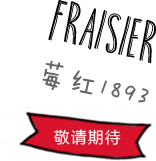
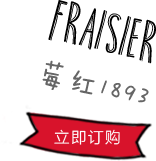
圣诞草莓蛋糕上线

Changed region(s): [[0.3333, 0.8075, 0.7692, 0.9006]]

diff --git a/src/christmas/index.html b/src/christmas/index.html
@@ -133,9 +133,11 @@
                 <img src="images/m_p9.png" class="buy-bg" width="151" height="242" />
                 <a href="#" class="buy-link"></a>
             </div>
+            <a href="javascript:;">
             <div class="secItem q10" data-anim="slide-right" data-delay="7.2">
                 <img src="images/m_p10.png" width="639" height="557" />
             </div>
+            </a>
             <div class="secItem q11" data-anim="slide-down-r" data-delay="8" data-delay-adjust="0.8">
                 <img src="images/m_p11.png" width="300" height="302" />
             </div>
@@ -143,12 +145,16 @@
                 <img src="images/m_p12.png" class="buy-bg" width="152" height="55" />
                 <a href="#" class="buy-link"></a>
             </div>
+            <a href="">
             <div class="secItem q13" data-anim="slide-up-r" data-delay="9.6">
                 <img src="images/m_p13.png" width="462" height="441" />
             </div>
+            </a>
+            <a href="">
             <div class="secItem q14" data-anim="slide-down-l" data-delay="10.4" data-delay-adjust="0.8">
                 <img src="images/m_p14.png" width="355" height="342" />
             </div>
+            </a>
             <div class="secItem q15 buy-btn" data-anim="slide-up-l" data-delay="11.2" data-delay-adjust="0.8">
                 <img src="images/m_p15.png" class="buy-bg" width="156" height="161" />
                 <a href="#" class="buy-link"></a>

diff --git a/src/christmas/js/christmas.js b/src/christmas/js/christmas.js
@@ -546,7 +546,7 @@
         var loadComplete = function () {
             Resource.el('#evt_loading').style.display = "none";
             Resource.el('#evt_container').style.display = 'block';
-            setCheeseMC();
+            // setCheeseMC();
             setLighterMc();
             correctPNG($('#evt_container').get(0));
             bindScroll('#evt_container');
